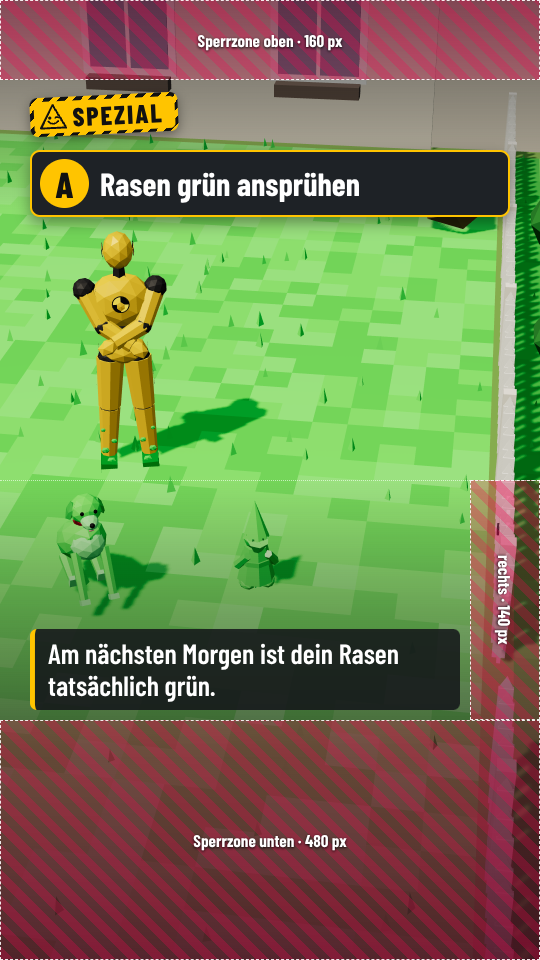
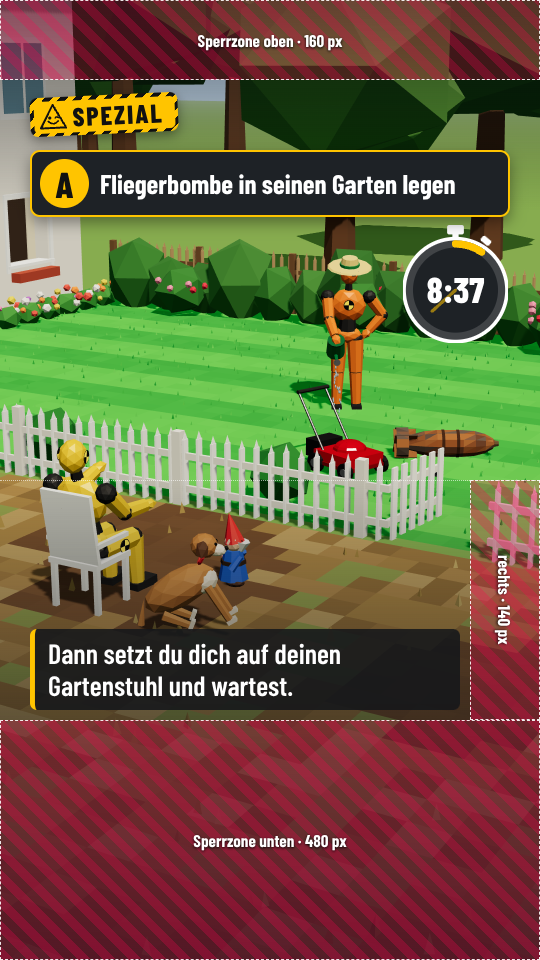
Nachbars Rasen Überarbeitung: Standbilder geprüft, Kamera Bombe tragen näher, Outro-Schild Freund markieren & folgen
Claude-Session: https://claude.ai/code/session_016ipiKK8BsV4yYKXZcXcqKR

diff --git a/scripts/spezial-nachbars-rasen-choreo.py b/scripts/spezial-nachbars-rasen-choreo.py
@@ -168,7 +168,7 @@ nbA = [K(0, NB_A[0], NB_A[1], 'waterplants', 240, brow=0, question=0), K(r3(c_w2
        K(r3(c_w2 + sec(A, 0.8)), NB_A[0], NB_A[1], 'waterplants', 240, brow=1, question=1), K(1, NB_A[0], NB_A[1], 'waterplants', 240, question=1)]
 canA = [K(0, NB_A[0], NB_A[1], 'park', 240, hand=1, holder='gartennachbar', drop=0.0, tilt=38, water=1)]
 expA = {
- 'camera': [*camF(0, r3(tA_scene - 0.003), F(body(*PA[0], 1.6) + body(*PA[2], 1.6) + [[BOMB[0], 0, BOMB[1]]] + body(*NB_A, 2.0), 15, 20)),
+ 'camera': [*camF(0, r3(tA_scene - 0.003), F(body(*PA[1], 1.7) + body(*PA[2], 1.7) + [[BOMB[0], 0, BOMB[1]]], 20, 14)),
             *camF(tA_scene, r3(c_w1 - 0.003), F(body(*CH, 1.5) + [[BOMB[0], 0.2, BOMB[1]]] + body(*NB_A, 2.0), 300, 14)),
             *camF(c_w1, r3(c_w2 - 0.003), F(body(*CH, 1.45, 0.4), 60, 8, (200, 880, 600, 1220))),
             *camF(c_w2, 1, F([[BOMB[0] - 0.7, 0, BOMB[1]], [BOMB[0] + 0.7, 0, BOMB[1]]] + body(*NB_A, 2.1), 330, 8))],
@@ -322,7 +322,7 @@ scen = {
   {'card': S['o3c'], 'speech': S['o3s'], 'dummyAction': 'Dummy im Anzug mit Aktenkoffer klingelt, unterschreibt den Kaufvertrag, VERKAUFT-Schild ploppt auf, Brief „Kündigung“ in den Briefkasten. Der Nachbar zieht mit seiner Gießkanne nach nebenan – plötzlich wird der gekaufte Rasen braun und der alte grün. Dummy verwirrt.', 'explanation': S['e3'], 'sceneExtra': EXTRA[3], 'choreography': expC},
  ],
  'countdown': {'speech': S['vote'], 'screen': 'Stimm ab!'},
- 'outro': {'speech': S['outro'], 'screen': 'Schreib A, B oder C in die Kommentare'},
+ 'outro': {'speech': S['outro'], 'screen': 'Freund markieren & folgen!'},
  'publishing': {
   'description': DESC,
   'pinnedComment': "Ich bin Team ___. Und du? 👇 Und welches Nachbar-Problem sollen wir als Nächstes lösen?",
